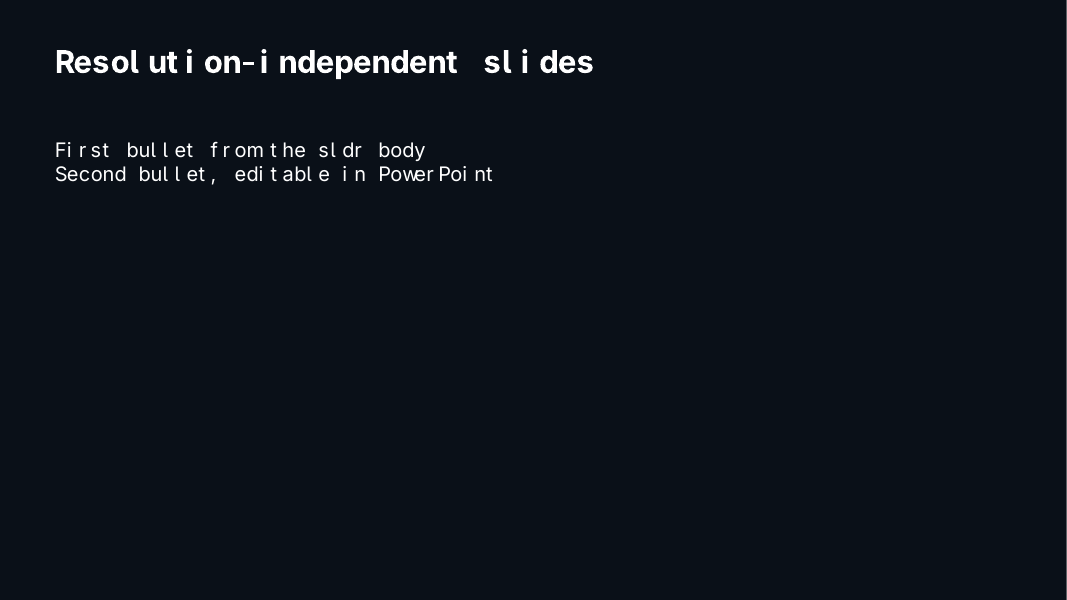
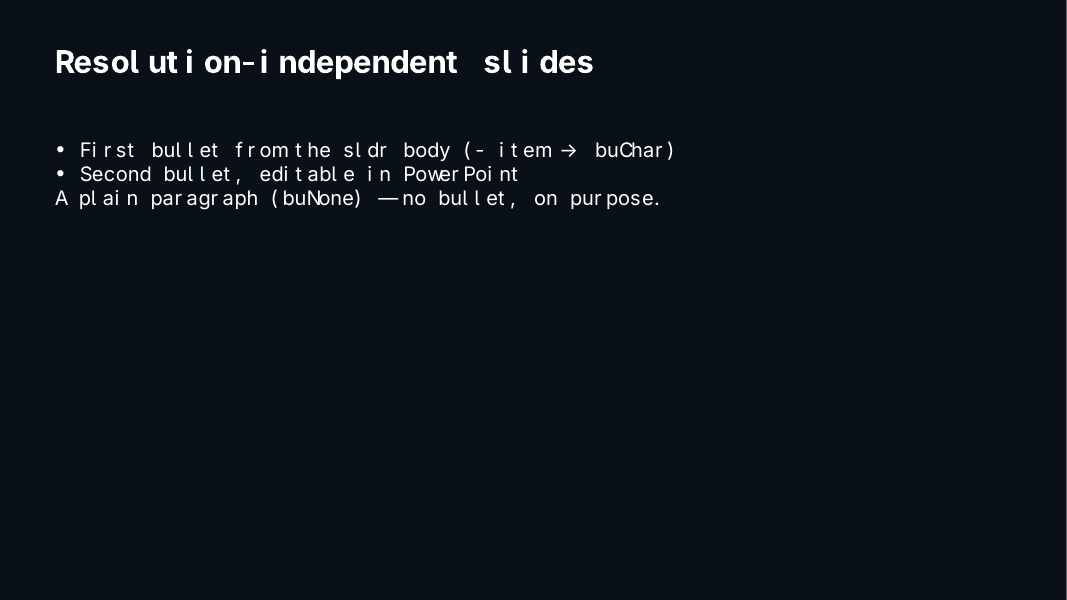
spike(pptx): per-paragraph bullets (buChar/buNone) — markdown->OOXML mapping
OOXML bullets are paragraph-level <a:pPr> props, not automatic. Spike now
shows • bulleted items and a buNone plain paragraph. Documents the markdown
list -> bullet/level mapping for Phase 1b (trx-4s9s.4).

Changed region(s): [[0.0309, 0.24, 0.6186, 0.36], [0.4948, 0.3, 0.6186, 0.36]]

diff --git a/docs/pptx-spike/gen.py b/docs/pptx-spike/gen.py
@@ -163,8 +163,9 @@ P["ppt/slides/slide1.xml"] = '''<?xml version="1.0" encoding="UTF-8" standalone=
 <p:spPr/><p:txBody><a:bodyPr/><a:lstStyle/><a:p><a:r><a:rPr lang="en-US"/><a:t>Resolution-independent slides</a:t></a:r></a:p></p:txBody></p:sp>
 <p:sp><p:nvSpPr><p:cNvPr id="3" name="Body"/><p:cNvSpPr><a:spLocks noGrp="1"/></p:cNvSpPr><p:nvPr><p:ph type="body" idx="1"/></p:nvPr></p:nvSpPr>
 <p:spPr/><p:txBody><a:bodyPr/><a:lstStyle/>
-<a:p><a:r><a:rPr lang="en-US"/><a:t>First bullet from the sldr body</a:t></a:r></a:p>
-<a:p><a:r><a:rPr lang="en-US"/><a:t>Second bullet, editable in PowerPoint</a:t></a:r></a:p></p:txBody></p:sp>
+<a:p><a:pPr marL="285750" indent="-285750"><a:buFont typeface="Arial"/><a:buChar char="&#8226;"/></a:pPr><a:r><a:rPr lang="en-US"/><a:t>First bullet from the sldr body (- item -&gt; buChar)</a:t></a:r></a:p>
+<a:p><a:pPr marL="285750" indent="-285750"><a:buFont typeface="Arial"/><a:buChar char="&#8226;"/></a:pPr><a:r><a:rPr lang="en-US"/><a:t>Second bullet, editable in PowerPoint</a:t></a:r></a:p>
+<a:p><a:pPr marL="0" indent="0"><a:buNone/></a:pPr><a:r><a:rPr lang="en-US"/><a:t>A plain paragraph (buNone) — no bullet, on purpose.</a:t></a:r></a:p></p:txBody></p:sp>
 </p:spTree></p:cSld></p:sld>'''
 
 os.makedirs("out", exist_ok=True)

diff --git a/docs/pptx-spike/FINDINGS.md b/docs/pptx-spike/FINDINGS.md
@@ -46,3 +46,6 @@ Generation risk is **low** — the structure is proven and deterministic. The
 remaining unknown is PowerPoint-specific strictness (mainly a complete
 `fmtScheme` and possibly `app.xml`/`docProps` fields); confirm with one open
 in real PowerPoint before Phase 1 builds on top.
+
+## Bullets (finding)
+OOXML bullets aren't automatic — a paragraph shows one only if its `<a:pPr>` defines it: `<a:buChar char="&#8226;"/>`+`<a:buFont>` (bulleted), `<a:buAutoNum/>` (numbered), or `<a:buNone/>` (none); `marL`/`indent` give the hanging indent, `lvl` the nesting. The markdown->OOXML converter (trx-4s9s.4) sets this per paragraph: `- item`->buChar, `1. item`->buAutoNum, indent->lvl, plain text/heading->buNone. Do it per-paragraph, not via master defaults, since a body mixes bullets and plain text. The spike now demonstrates all three.
